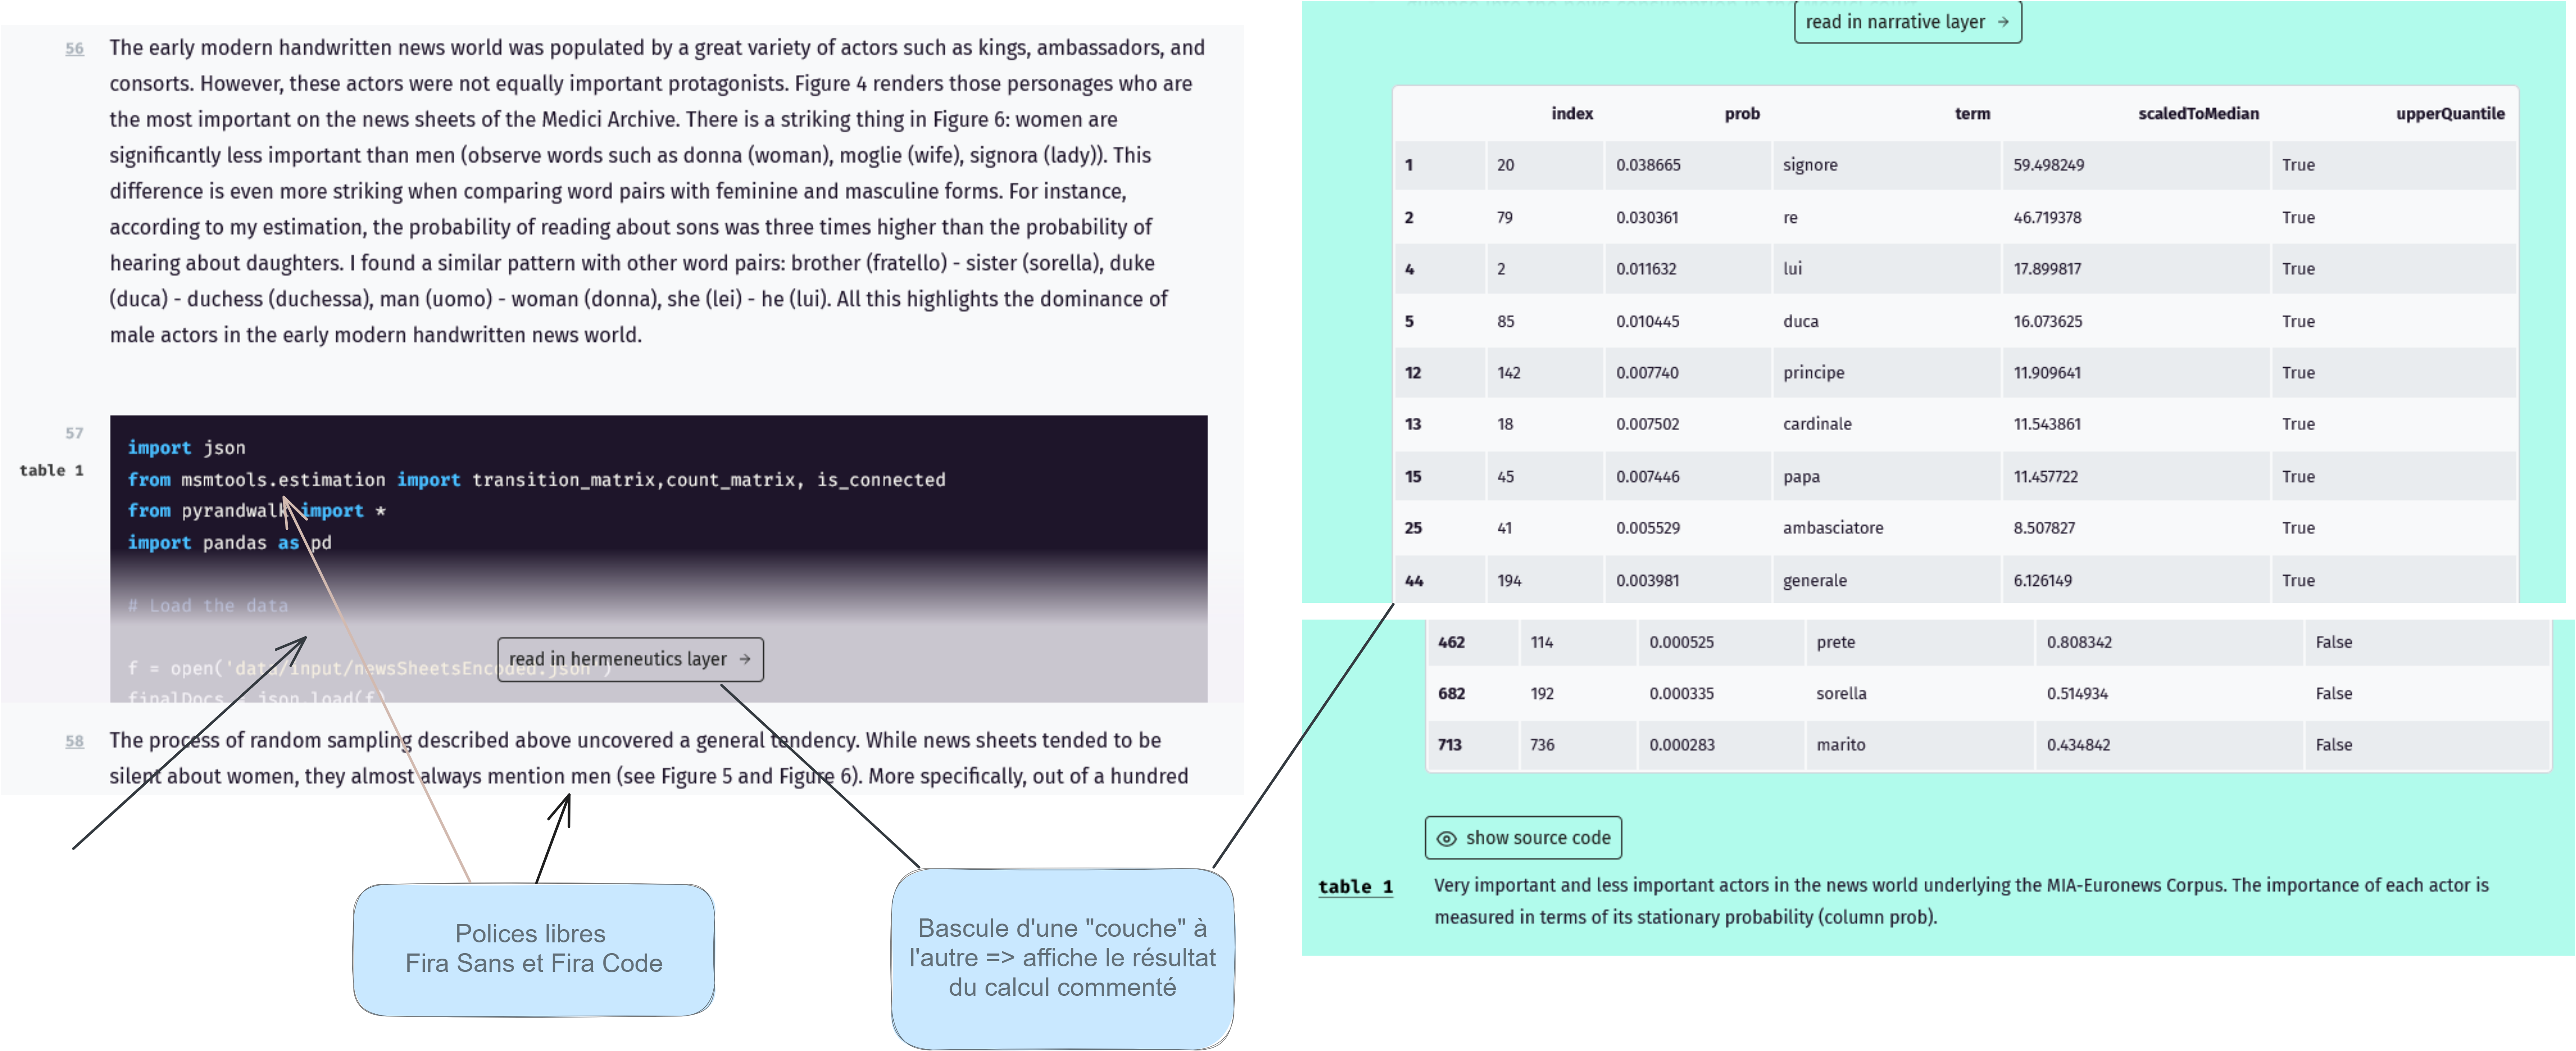
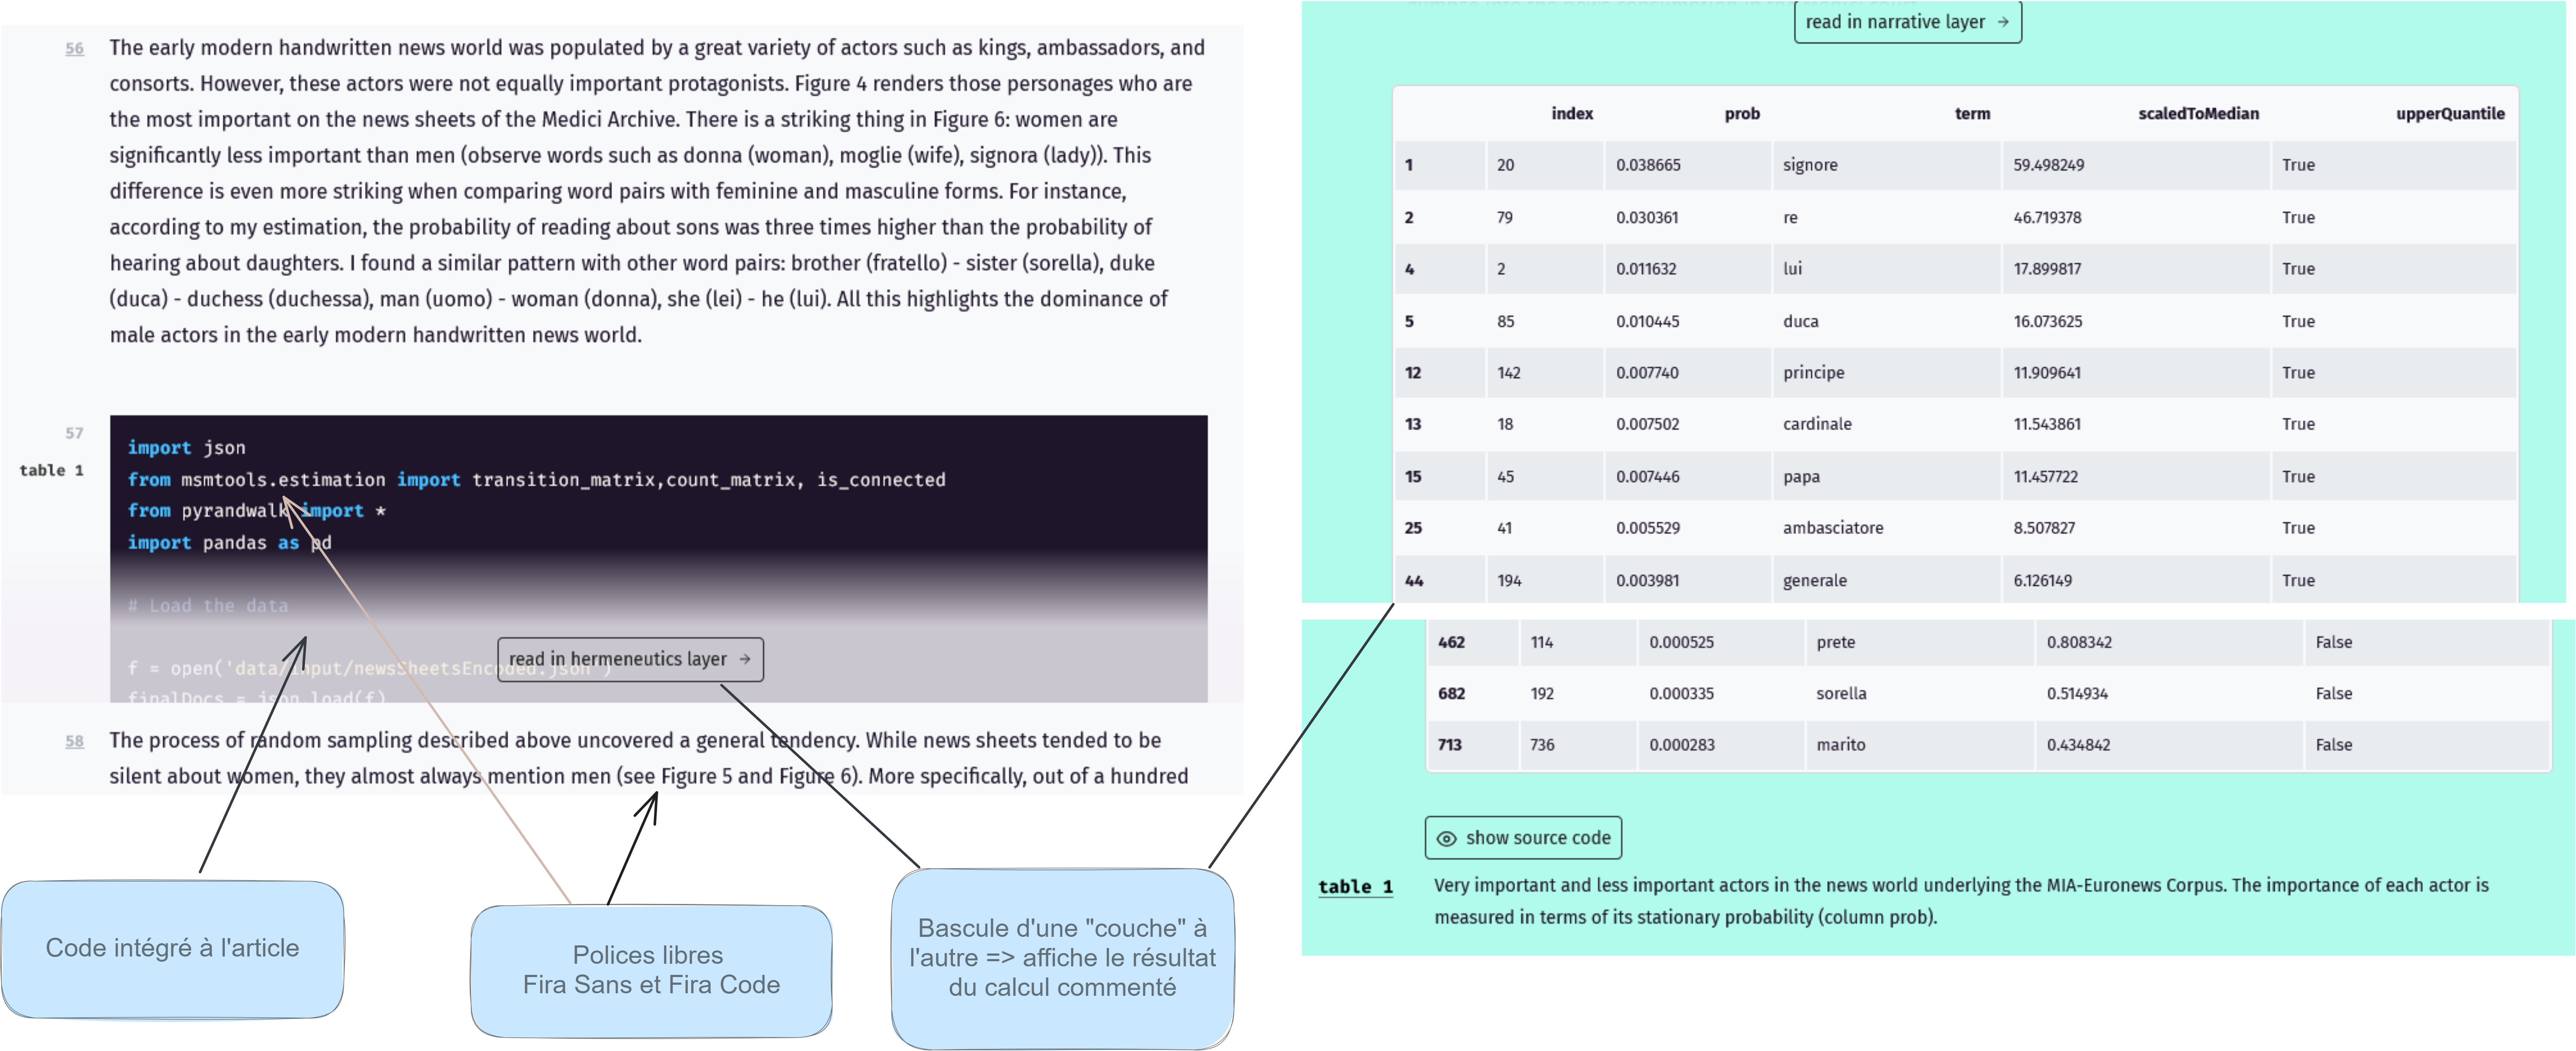
should fix css

Changed region(s): [[0.0, 0.8348, 0.3431, 0.9894], [0.0936, 0.4638, 0.1248, 0.5256], [0.0936, 0.6184, 0.1248, 0.6493]]

diff --git a/docs/index.html b/docs/index.html
@@ -29,7 +29,7 @@
       vertical-align: middle;
     }
   </style>
-  <link rel="stylesheet" href="index_files/libs/revealjs/dist/theme/quarto-5b9349d3b36adafc71ebedfcec2e223d.css">
+  <link rel="stylesheet" href="index_files/libs/revealjs/dist/theme/quarto-c572feaf46ac3ece1eb8de77b8cacaad.css">
   <link href="index_files/libs/revealjs/plugin/quarto-line-highlight/line-highlight.css" rel="stylesheet">
   <link href="index_files/libs/revealjs/plugin/reveal-menu/menu.css" rel="stylesheet">
   <link href="index_files/libs/revealjs/plugin/reveal-menu/quarto-menu.css" rel="stylesheet">

diff --git a/utils.scss b/utils.scss
@@ -10,7 +10,7 @@ $heading-sans-serif: "Linux Biolinum";
 @font-face {
   font-family: "Linux Biolinum";
   src: 
-    url("/fonts/LinBiolinum_R.woff2") format("woff2");
+    url("fonts/LinBiolinum_R.woff2") format("woff2");
   font-weight: normal;
   font-style: normal;
 }